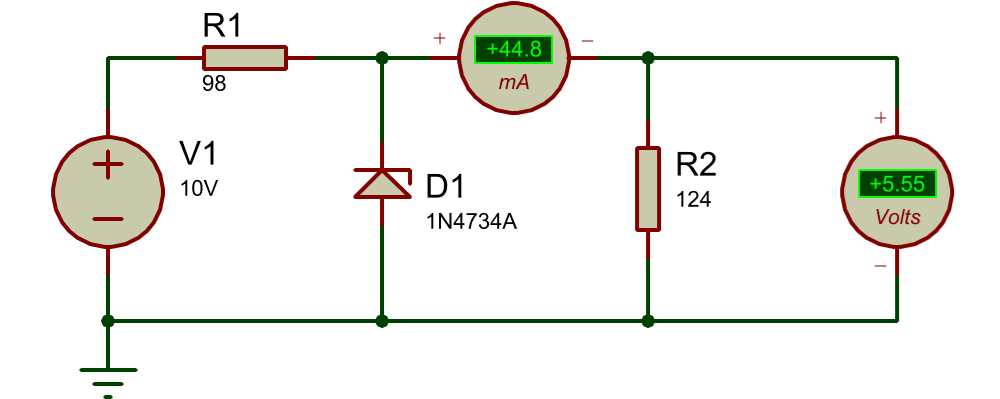
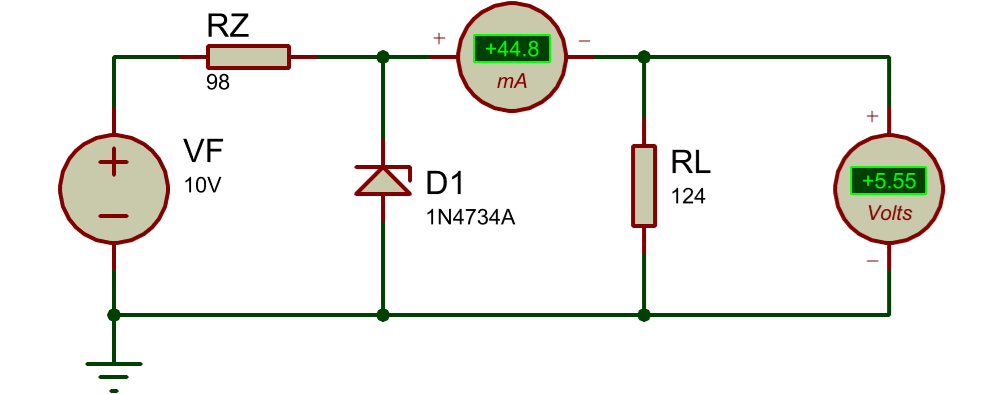
1129

diff --git a/Electrotecnia/3.1 Resistencias.html b/Electrotecnia/3.1 Resistencias.html
@@ -27,9 +27,7 @@
 			<br><br>
 			<b><i>Tabla de colores de las resistencias</i></b>
 			<br><br>
-			<div align="center"><img src="img/Tabla_colores_resistencias_y_condensadores.png" alt="" width="auto" height="auto"></div>
-			<br><br>
-			Veamos un par de ejemplos:
+			<div align="center"><img src="img/Resistors color code.png" alt="" width="auto" height="auto"></div>
 			<br><br>
 			Ejemplo 1:
 			<br><br>